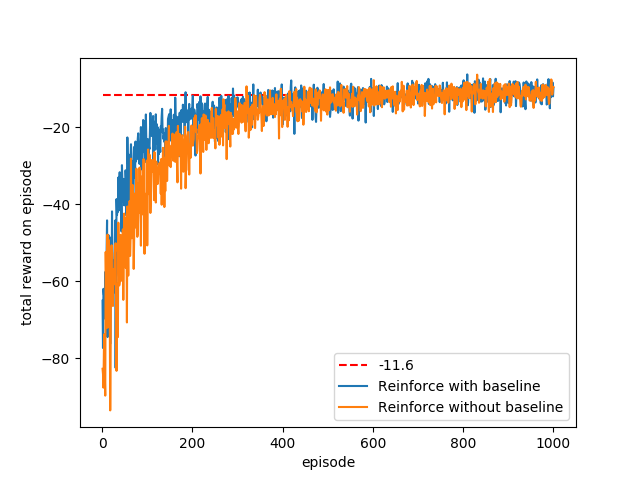
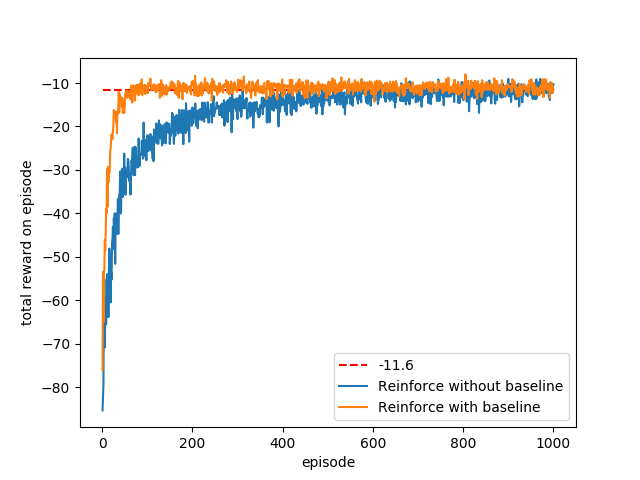
Fix figure_13_2

diff --git a/chapter13/short_corridor.py b/chapter13/short_corridor.py
@@ -18,7 +18,7 @@ def true_value(p):
         p (float): probability of the action 'right'.
     Returns:
         True value of the first state.
-        The expression is obtained by manually solving the easy linear system 
+        The expression is obtained by manually solving the easy linear system
         of Bellman equations using known dynamics.
     """
     return (2 * p - 4) / (p * (1 - p))
@@ -213,7 +213,7 @@ def example_13_1():
     plt.close()
 
 def figure_13_1():
-    num_trials = 30
+    num_trials = 100
     num_episodes = 1000
     alpha = 2e-4
     gamma = 1
@@ -226,7 +226,7 @@ def figure_13_1():
         rewards[i, :] = reward
 
     plt.plot(np.arange(num_episodes) + 1, -11.6 * np.ones(num_episodes), ls='dashed', color='red', label='-11.6')
-    plt.plot(np.arange(num_episodes) + 1, rewards.mean(axis=0), color='blue')
+    plt.plot(np.arange(num_episodes) + 1, rewards.mean(axis=0))
     plt.ylabel('total reward on episode')
     plt.xlabel('episode')
     plt.legend(loc='lower right')
@@ -235,14 +235,14 @@ def figure_13_1():
     plt.close()
 
 def figure_13_2():
-    num_trials = 30
+    num_trials = 100
     num_episodes = 1000
     alpha = 2e-4
     gamma = 1
     agent_generators = [lambda : ReinforceAgent(alpha=alpha, gamma=gamma),
-                        lambda : ReinforceBaselineAgent(alpha=alpha, gamma=gamma, alpha_w=alpha*100)]
-    labels = ['Reinforce with baseline',
-              'Reinforce without baseline']
+                        lambda : ReinforceBaselineAgent(alpha=alpha*10, gamma=gamma, alpha_w=alpha*100)]
+    labels = ['Reinforce without baseline',
+              'Reinforce with baseline']
 
     rewards = np.zeros((len(agent_generators), num_trials, num_episodes))
 
